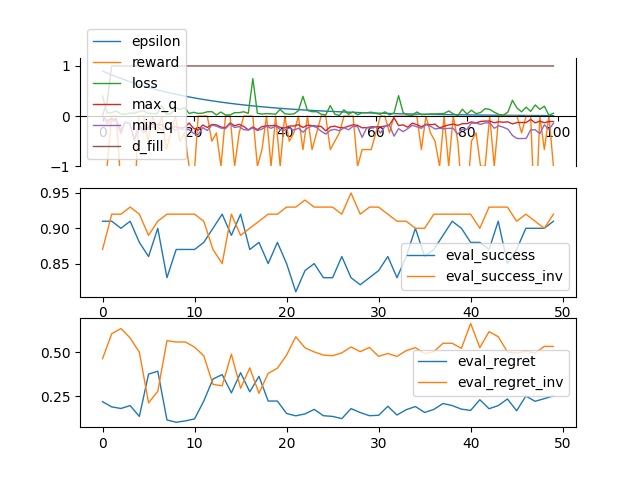
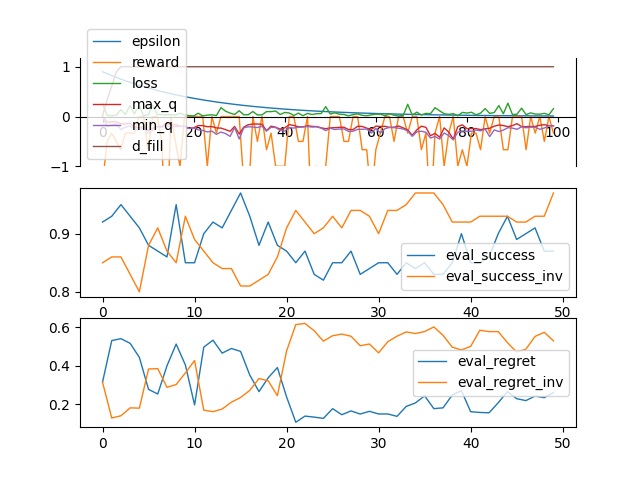
using rng correctly

diff --git a/planner/mapf_with_rl/mapf_with_rl.py b/planner/mapf_with_rl/mapf_with_rl.py
@@ -43,7 +43,8 @@ def get_ecbs_cost(scen: SCENARIO_TYPE, ignore_finished_agents: bool):
 
 
 class Scenario(object):
-    def __init__(self, this_data: SCENARIO_TYPE, ignore_finished_agents: bool, rng: random.Random) -> None:
+    def __init__(self, this_data: SCENARIO_TYPE,
+                 ignore_finished_agents: bool, rng: random.Random) -> None:
         super().__init__()
         self.env, self.starts, self.goals = this_data
         self.ignore_finished_agents = ignore_finished_agents
@@ -132,7 +133,8 @@ class Scenario(object):
         return state, reward
 
 
-def make_useful_scenarios(n: int, ignore_finished_agents, size, n_agents, rng: random.Random) -> List[Scenario]:
+def make_useful_scenarios(n: int, ignore_finished_agents, size, n_agents,
+                          rng: random.Random) -> List[Scenario]:
     scenarios: List[Scenario] = []
     if n > 1:
         pb = ProgressBar("Data Generation", n, 5)
@@ -213,9 +215,9 @@ class Qfunction(torch.nn.Module):
         return other_fn.load_state_dict(self.state_dict())
 
 
-def sample_random_minibatch(n: int, d, qfun_hat, gamma: float):
+def sample_random_minibatch(n: int, d, qfun_hat, gamma: float, rng: random.Random):
     n = min(n, len(d))
-    memory_tuples = random.choices(d, k=n)
+    memory_tuples = rng.choices(d, k=n)
     training_batch = []
     for mt in memory_tuples:
         (state, action, reward, next_state) = mt
@@ -368,10 +370,10 @@ def q_learning(n_episodes: int, eps_start: float,
         # 3
         for i_t in range(time_limit):
             if state is not None:  # episode has not ended
-                rand = random.random()
+                rand = rng.random()
                 if rand > epsilon:  # exploration
                     # 4
-                    action = int(random.random())
+                    action = int(rng.random())
                 else:  # exploitation
                     # 5
                     action, [qvals] = qfun.get_action_and_q_value_training(
@@ -390,10 +392,10 @@ def q_learning(n_episodes: int, eps_start: float,
                 if len(d) < d_max_len:
                     d.append(memory_tuple)
                 else:
-                    d[random.randint(0, d_max_len-1)] = memory_tuple
+                    d[rng.randint(0, d_max_len-1)] = memory_tuple
                 # 9
                 training_batch = sample_random_minibatch(
-                    n_training_batch, d, qfun_hat, gamma)
+                    n_training_batch, d, qfun_hat, gamma, rng)
                 # 12
                 loss = train(training_batch, qfun, optimizer)
                 i_o += 1
